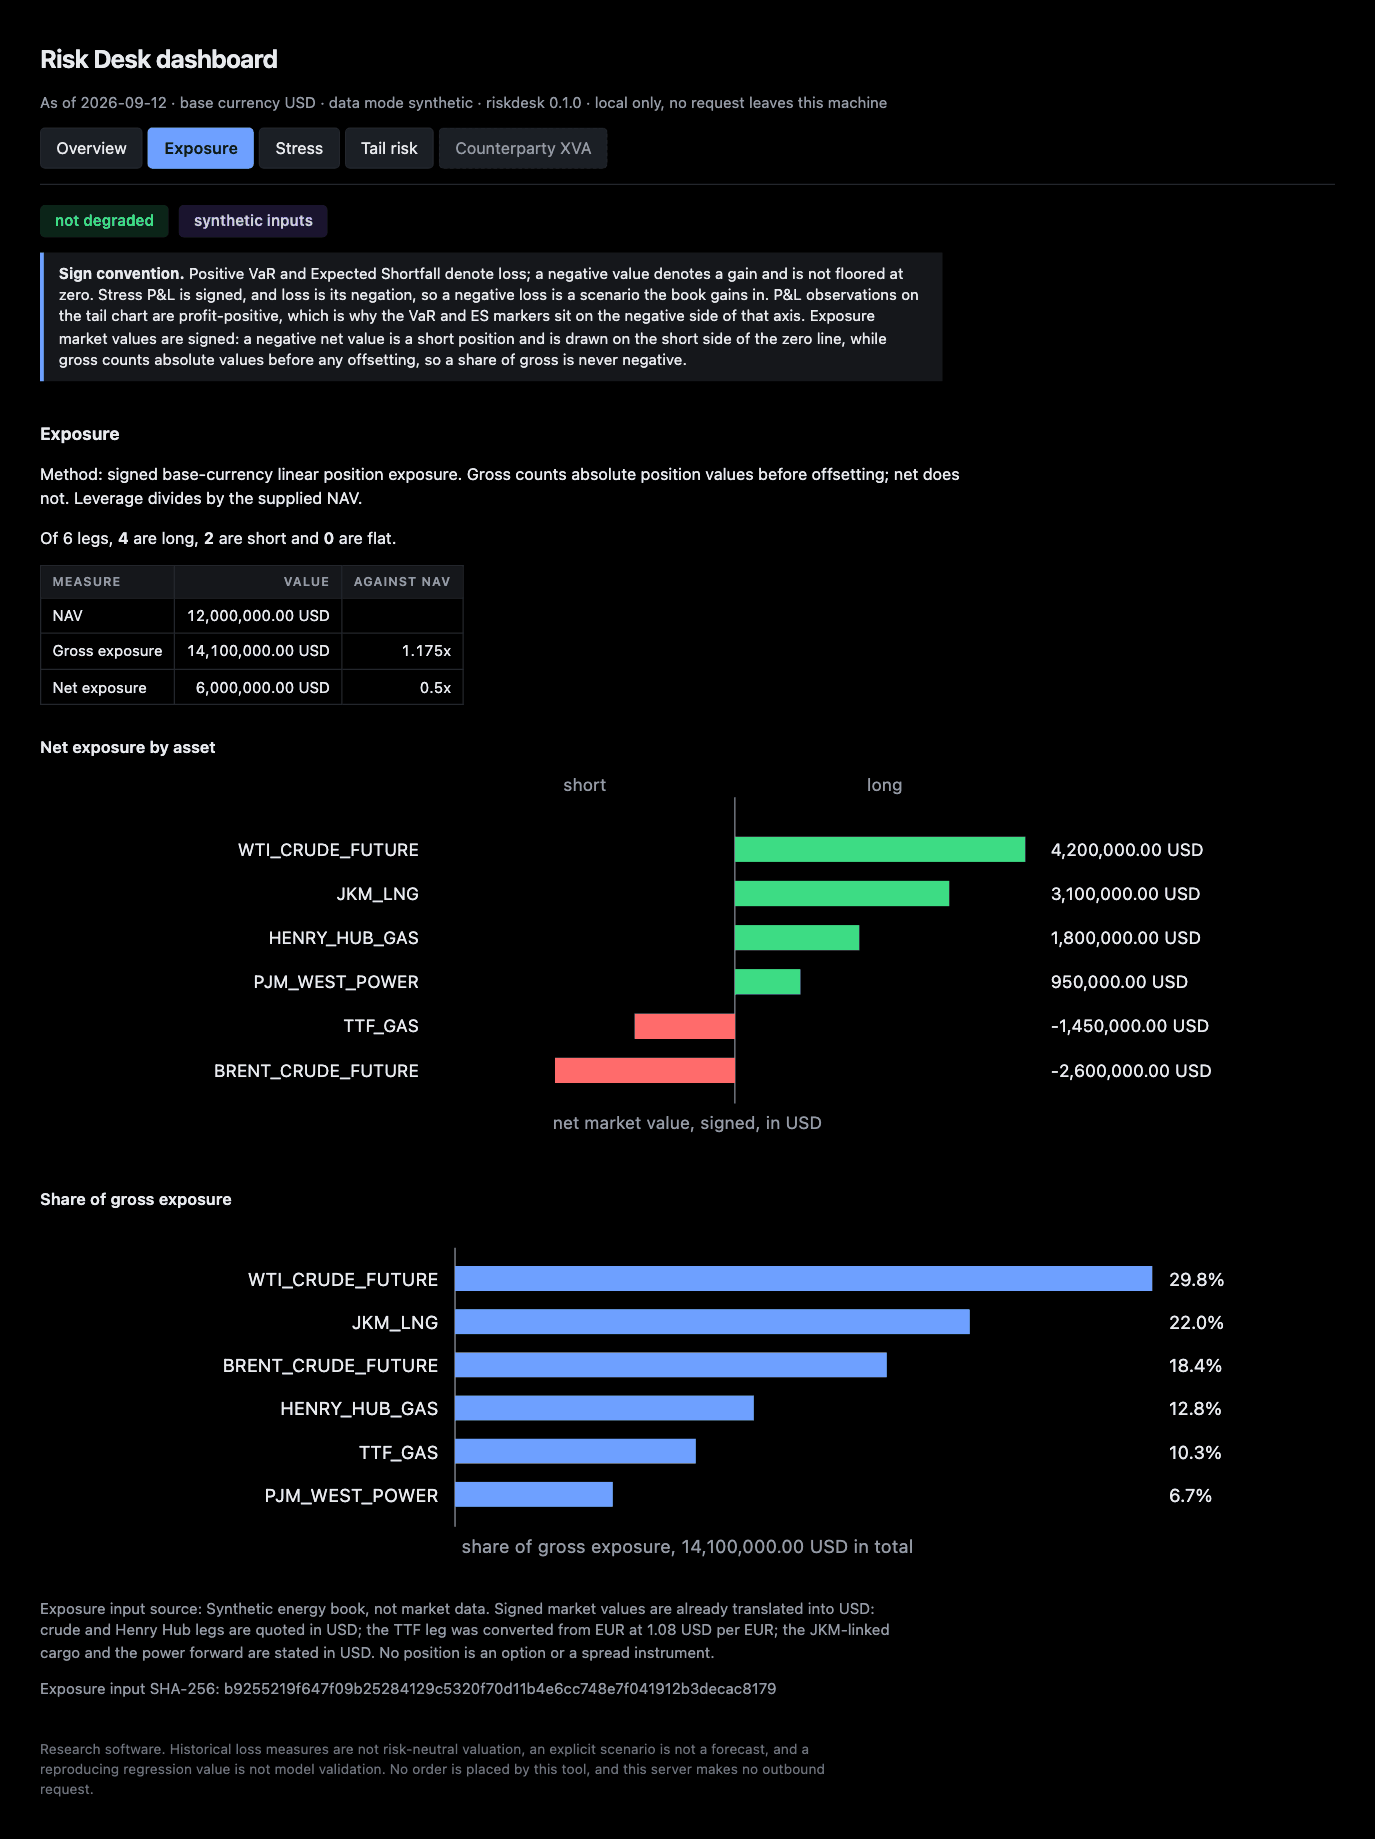
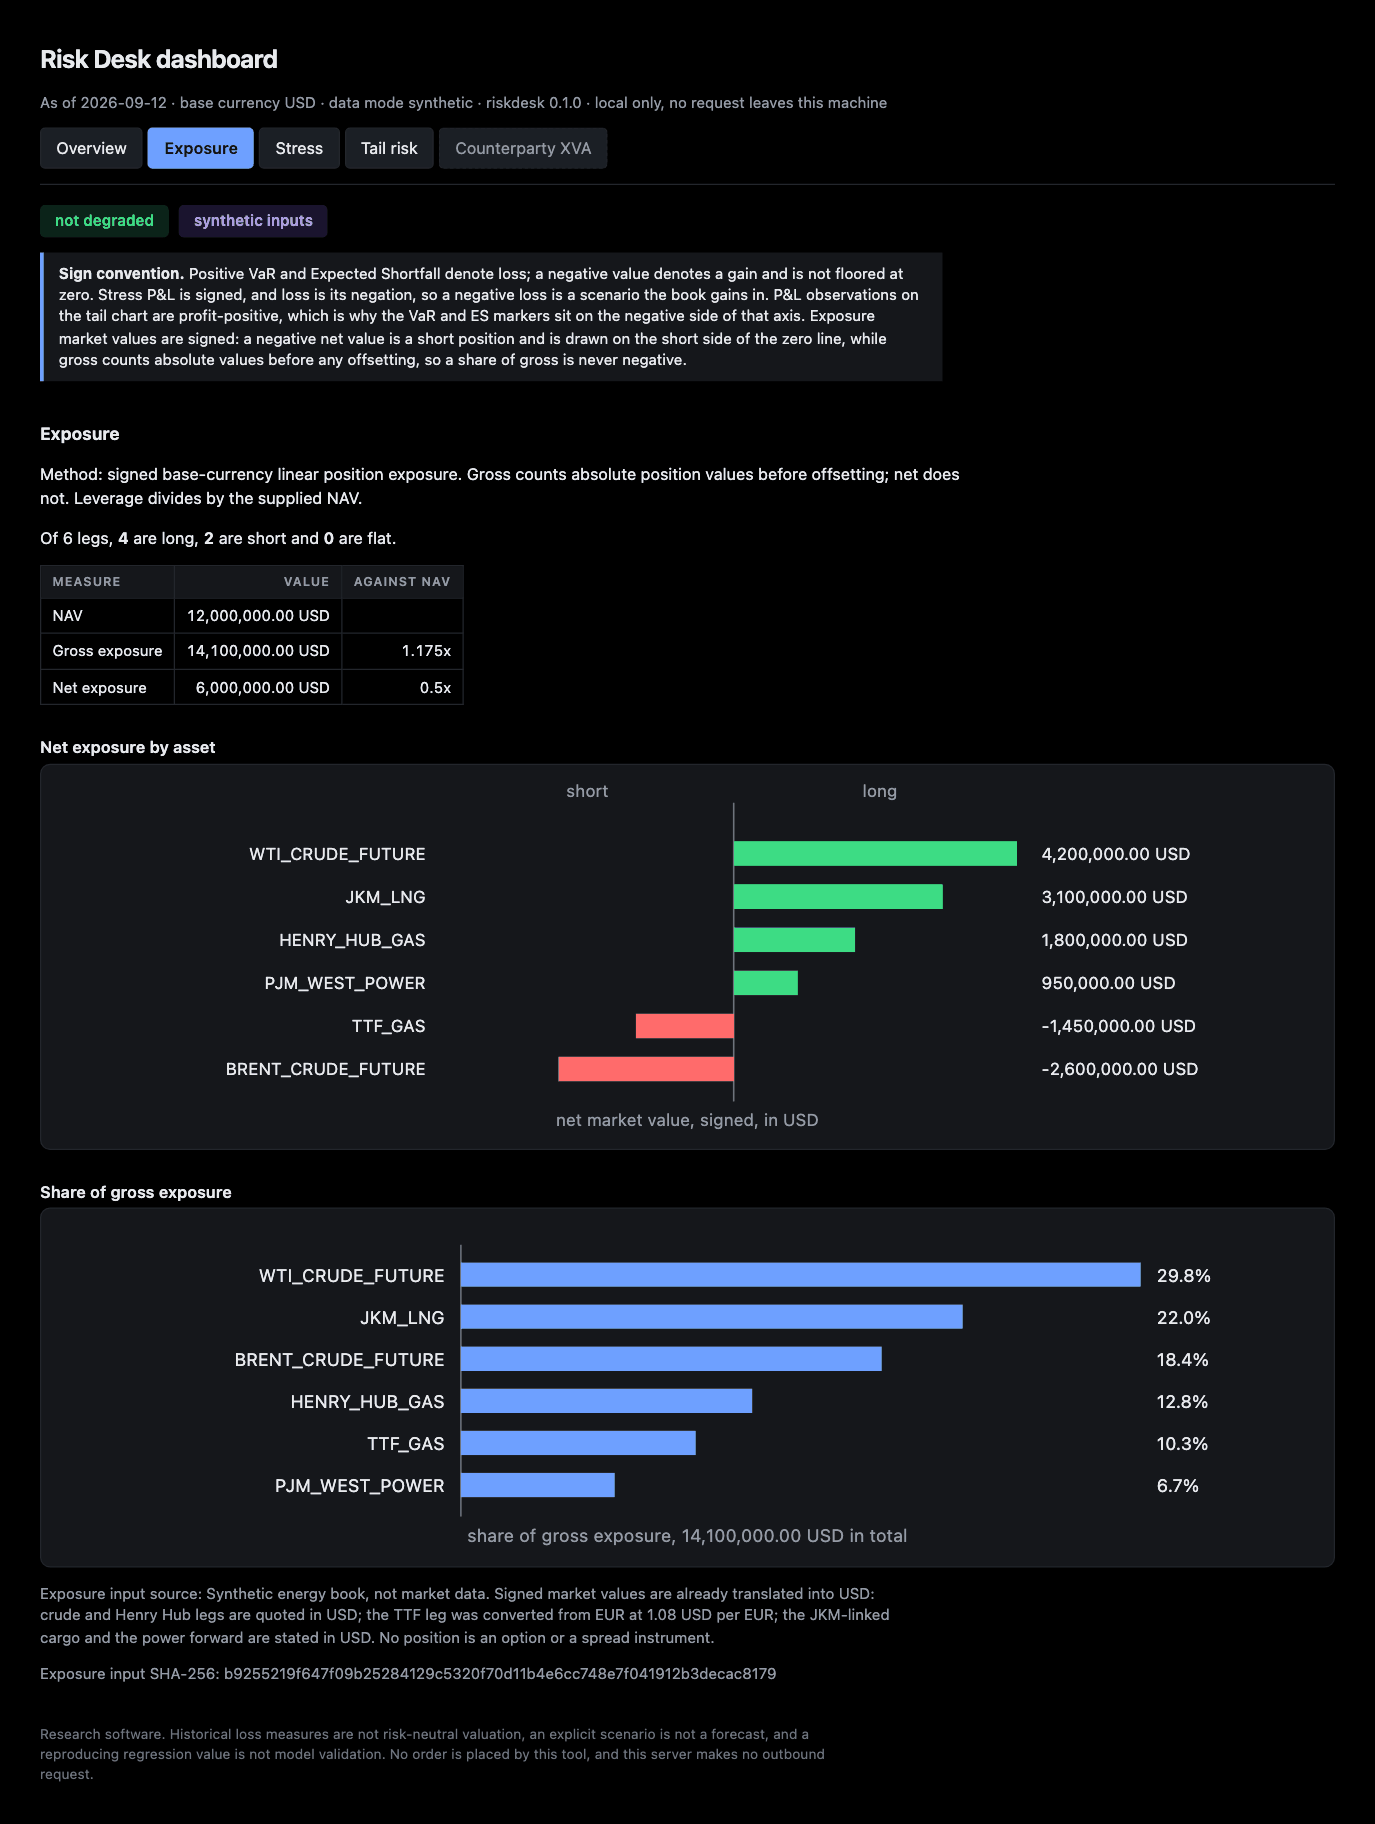
Reshoot the images and record what looking found
Images 404,753 of the 500,000 cap. Tests 268, coverage 86.06.

diff --git a/docs/IMPLEMENTATION.md b/docs/IMPLEMENTATION.md
@@ -37,6 +37,33 @@ Not measured in the 2026-09-14/15 session, and therefore not claimed:
 
 ## VERIFIED
 
+Observed on 2026-09-15 London time, for what looking at the pages found:
+
+- The pages were opened in a real Chrome at 1280x900 and at 390x844
+  mobile, in dark. Two things were found that bytes and contrast numbers
+  had not.
+- The synthetic violet is correct in a browser. The grey pill seen
+  earlier was purely PNG palette quantisation, not a CSS fault, which is
+  why the 64-colour palette is the one that ships.
+- At 390px the charts were unreadable: an inline SVG at width 100% scales
+  its own text down with it, and the axis labels rendered around 5px. The
+  shared system's own chart frame does not fix this; its body rule is the
+  same width 100%, height auto. So the frame here adds a horizontal
+  scroll and a minimum chart width, and below that width the frame moves
+  rather than the page. Re-checked at 390px afterwards: the asset labels
+  are legible.
+- Every chart now sits in a frame, pinned by a test, because a chart
+  emitted outside one would quietly go back to being unreadable on a
+  phone. The chart functions are untouched, so there is still one place a
+  chart is drawn.
+- Re-measured after the frame changed the rendered pages:
+  report-energy-stress 250,126, dashboard-exposure 82,310,
+  dashboard-overview 72,317, totalling 404,753 of the 500,000 cap, 95,247
+  spare.
+- 268 tests collected, all passing and none skipped, up from 267. Unit
+  coverage 86.03 to 86.06 percent. Contrast 32 pairs enforced with 0
+  failures.
+
 Observed on 2026-09-15 London time, for the README images:
 
 - The four restyled images were re-rendered dark at 64 colours and
@@ -93,8 +120,7 @@ Observed on 2026-09-15 London time, for the design system:
 - The captures were rendering the LIGHT mode of a dark-first system,
   because headless Chromium defaults to light. Both capture paths now set
   the scheme and default to dark.
-- Tests: 257 collected before, 267 tests collected after, all passing and
-  none skipped. Unit coverage 778 of 906 lines before, 788 of 916 lines
+- Tests: 257 collected before, 267 after, all passing and none skipped. Unit coverage 778 of 906 lines before, 788 of 916 lines
   after, 86.03 percent.
 
 Observed on 2026-09-15 London time, for the dashboard:

diff --git a/CHANGELOG.md b/CHANGELOG.md
@@ -11,6 +11,23 @@ portfolio exposure, explicit stress scenarios, and an Open Source Risk
 Engine exposure and XVA adapter. One runtime under `src/riskdesk`, called
 by both the CLI and the MCP server. Five plugin skills.
 
+### Fixed on 2026-09-15, charts on a narrow screen
+
+- Charts were unreadable at phone width. An inline SVG at width 100%
+  scales its own text down with it, so at 390px the axis labels rendered
+  around 5px. Found by opening the page in a real browser at that
+  viewport, after bytes and contrast had both been measured and neither
+  had caught it. The shared system's chart frame does not fix this, its
+  body rule being the same width 100%, so this frame adds a horizontal
+  scroll and a minimum chart width: below it the frame moves, never the
+  page. Every chart sits in one, pinned by a test.
+
+### Measured on 2026-09-15, charts on a narrow screen
+
+- 267 tests before, 268 after. Unit line coverage 86.03 percent before,
+  86.06 percent after. Contrast 32 pairs enforced, 0 failures.
+- Images re-shot after the frame changed the pages: 404,753 of 500,000.
+
 ### Removed on 2026-09-15, README images
 
 - `docs/images/report-energy-exposure.png`. A crop of the report's

diff --git a/README.md b/README.md
@@ -9,8 +9,8 @@ tools call the same runtime functions, so an agent and a person get the
 same numbers with the same provenance, units, assumptions and degraded
 flag attached. 5 plugin skills cover these tasks and setup.
 
-[![Tests](https://img.shields.io/badge/tests-267%20collected-blue)](docs/IMPLEMENTATION.md)
-[![Unit coverage](https://img.shields.io/badge/unit%20coverage-86.03%25-blue)](#development)
+[![Tests](https://img.shields.io/badge/tests-268%20collected-blue)](docs/IMPLEMENTATION.md)
+[![Unit coverage](https://img.shields.io/badge/unit%20coverage-86.06%25-blue)](#development)
 [![Python](https://img.shields.io/badge/python-3.13%20tested-blue)](#get-started)
 [![License](https://img.shields.io/badge/license-PolyForm%20Noncommercial-blue)](LICENSE)
 
@@ -218,7 +218,7 @@ valuation model for those, not this one.
 ## Development
 
 ```sh
-.venv/bin/python -m pytest -q --color=no          # 267 tests, none skipped
+.venv/bin/python -m pytest -q --color=no          # 268 tests, none skipped
 .venv/bin/python scripts/evidence.py check        # documents match the record
 .venv/bin/python -m coverage run -m pytest -q --color=no -m unit
 .venv/bin/python -m coverage json -q
